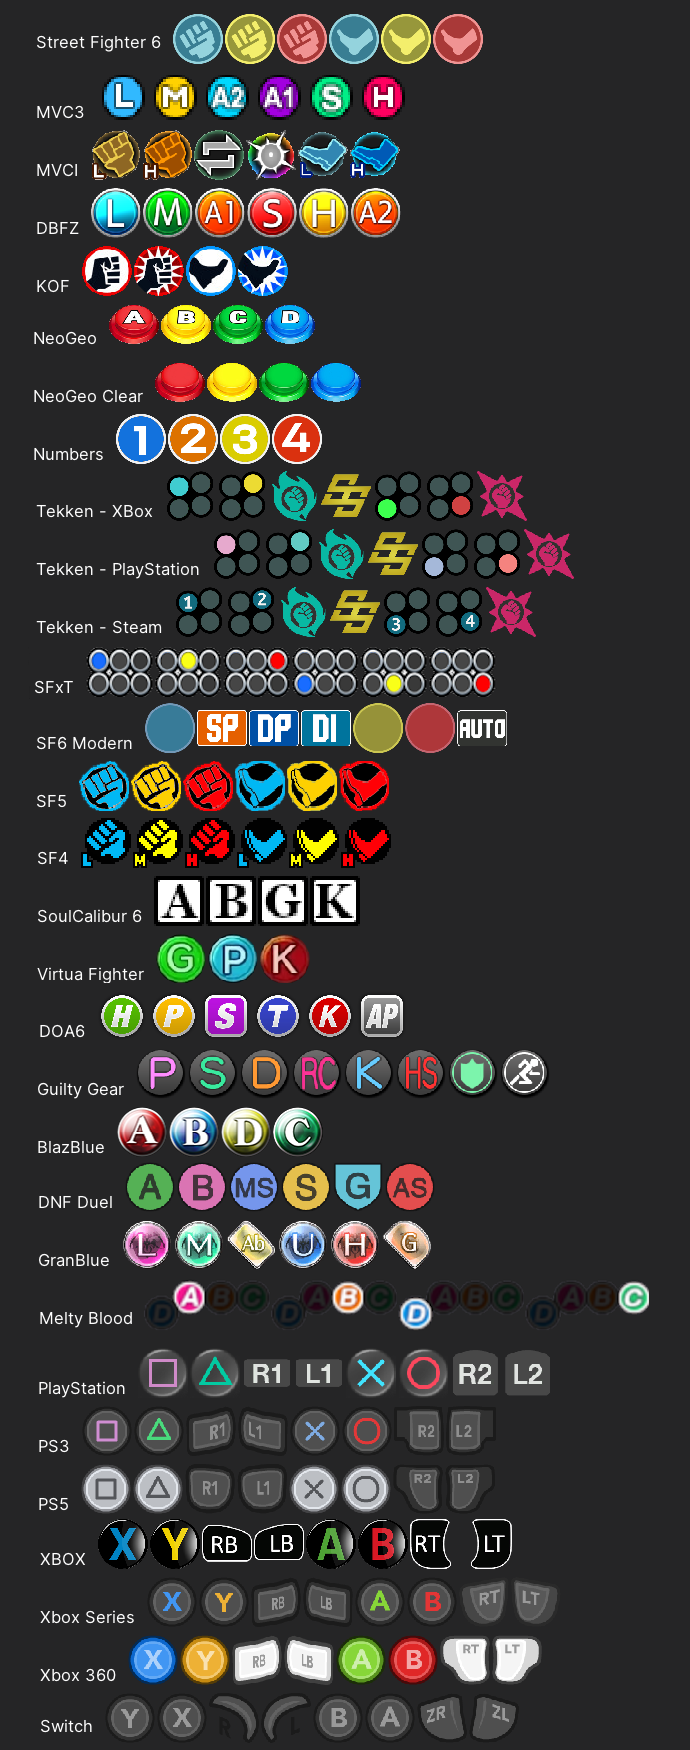
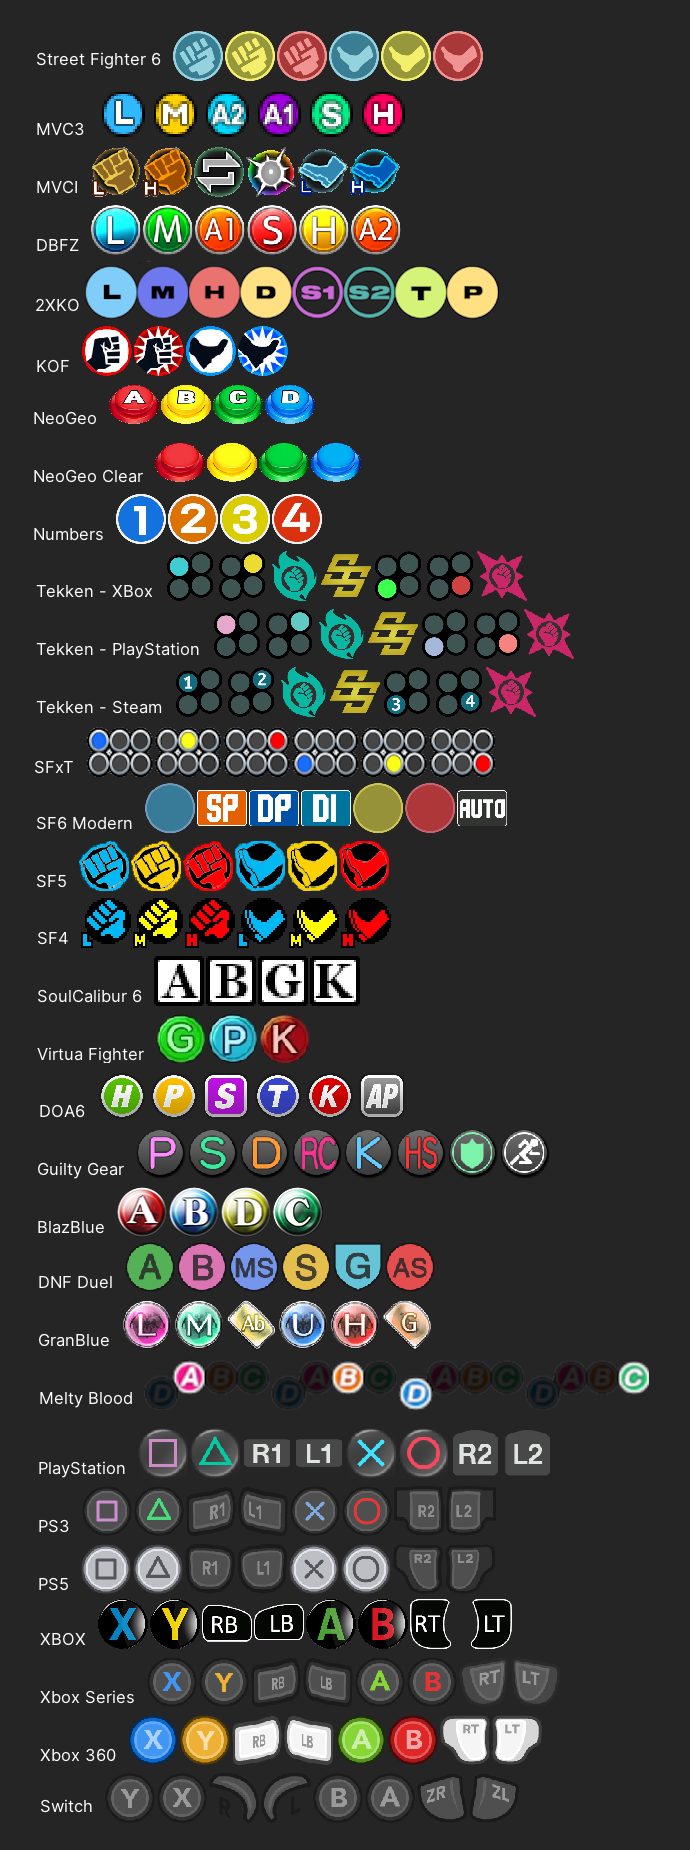
add 2xko theme

diff --git a/src/InputDisplay/Themes/ThemeConfig.cs b/src/InputDisplay/Themes/ThemeConfig.cs
@@ -14,6 +14,7 @@ public static class ThemeConfig
         new(StringComparer.InvariantCultureIgnoreCase)
         {
             [DefaultDirection] = new("arrows"),
+            ["Arrows"] = new("arrows2", hasNeutral: true),
             ["Small"] = new("arrows_sm"),
             ["Numpad"] = new("numpad", hasNeutral: true),
             ["Dpad"] = new("dpad", hasNeutral: true),
@@ -73,6 +74,22 @@ public static class ThemeConfig
                     [ButtonName.KK] = [ButtonName.LP, ButtonName.MP],
                     [ButtonName.HK] = [ButtonName.LK, ButtonName.MK],
                 },
+            },
+            ["2XKO"] = new()
+            {
+                Name = "2xko",
+                Textures = new()
+                {
+                    [ButtonName.LP] = "l",
+                    [ButtonName.MP] = "m",
+                    [ButtonName.HP] = "h",
+                    [ButtonName.PP] = "dash",
+                    [ButtonName.LK] = "s1",
+                    [ButtonName.MK] = "s2",
+                    [ButtonName.HK] = "tag",
+                    [ButtonName.KK] = "parry",
+                },
+                MacrosTemplate = [],
             },
             ["DBFZ"] = new()
             {

diff --git a/src/InputDisplay/Themes/Theme.cs b/src/InputDisplay/Themes/Theme.cs
@@ -82,8 +82,8 @@ public record Theme
         public string Name { get; init; } = "";
         public bool IsPad { get; init; } = false;
         public string Path => ContentPath.Combine(BasePath, Name);
-        public InputMacro MacrosTemplate { get; init; } = new();
-        public required ButtonImage Textures { get; init; } = new();
+        public InputMacro MacrosTemplate { get; init; } = [];
+        public required ButtonImage Textures { get; init; } = [];
 
         public bool HasEmptyImage => Textures.ContainsKey(ButtonName.None);
 
